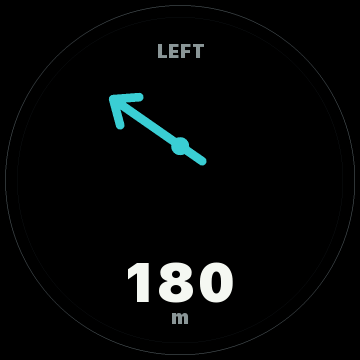
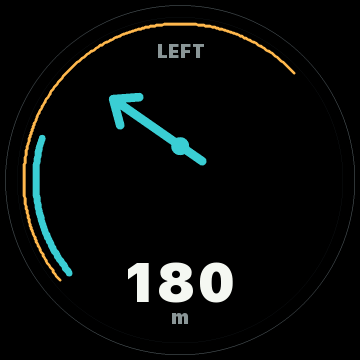
Feature: Add total distance and 'next turn' progress arcs.

diff --git a/src/App.cpp b/src/App.cpp
@@ -41,6 +41,36 @@ void drawCircularShell(Display& display) {
     display.circle(cx, cy, radius - 12, Color{18, 26, 28}, 1);
 }
 
+int clampProgress(int value) {
+    if (value < 0) {
+        return -1;
+    }
+
+    if (value > 100) {
+        return 100;
+    }
+
+    return value;
+}
+
+void drawProgressArcs(Display& display, const NavState& state) {
+    const int cx = centerX(display);
+    const int cy = centerY(display);
+    const int radius = faceRadius(display);
+    const int trip = clampProgress(state.tripProgressRemaining);
+    const int maneuver = clampProgress(state.maneuverProgressRemaining);
+
+    if (trip >= 0) {
+        const float sweep = 260.0f * (float)trip / 100.0f;
+        display.arc(cx, cy, radius - 18, -130.0f, sweep, Palette::Amber, 3);
+    }
+
+    if (maneuver >= 0) {
+        const float sweep = 260.0f * (float)maneuver / 100.0f;
+        display.arc(cx, cy, radius - 30, -130.0f, sweep, Palette::Cyan, 7);
+    }
+}
+
 void drawSpeedWarning(Display& display, const NavState& state) {
     if (state.currentSpeed <= 0 || state.speedLimit <= 0 || state.currentSpeed <= state.speedLimit) {
         return;
@@ -159,6 +189,7 @@ void App::render(Display& display) {
 
 void App::renderNavigation(Display& display) {
     drawCircularShell(display);
+    drawProgressArcs(display, _state);
     drawSpeedWarning(display, _state);
 
     const int cx = centerX(display);

diff --git a/sim/SdlDisplay.cpp b/sim/SdlDisplay.cpp
@@ -383,6 +383,35 @@ void SdlDisplay::circle(int cx, int cy, int radius, SteedPilot::Color color, int
     }
 }
 
+void SdlDisplay::arc(int cx, int cy, int radius, float startDegrees, float sweepDegrees, SteedPilot::Color color, int thickness) {
+    if (sweepDegrees <= 0.0f) {
+        return;
+    }
+
+    if (sweepDegrees > 360.0f) {
+        sweepDegrees = 360.0f;
+    }
+
+    const int steps = std::max(8, (int)(std::abs(sweepDegrees) * radius / 90.0f));
+    int previousX = 0;
+    int previousY = 0;
+
+    for (int i = 0; i <= steps; ++i) {
+        const float p = (float)i / (float)steps;
+        const float degrees = startDegrees + sweepDegrees * p;
+        const float radians = (degrees - 90.0f) * 3.14159265358979323846f / 180.0f;
+        const int x = cx + (int)(std::cos(radians) * radius);
+        const int y = cy + (int)(std::sin(radians) * radius);
+
+        if (i > 0) {
+            line(previousX, previousY, x, y, color, thickness);
+        }
+
+        previousX = x;
+        previousY = y;
+    }
+}
+
 void SdlDisplay::fillCircle(int cx, int cy, int radius, SteedPilot::Color color) {
     setColor(color);
     const int scaledRadius = ss(radius);

diff --git a/include/SteedPilot/Display.h b/include/SteedPilot/Display.h
@@ -77,6 +77,19 @@ public:
     virtual void circle(int cx, int cy, int radius, Color color, int thickness = 1) = 0;
 
     /**
+     * Draws a clockwise arc outline.
+     *
+     * @param cx Center x coordinate.
+     * @param cy Center y coordinate.
+     * @param radius Arc radius in pixels.
+     * @param startDegrees Start angle in degrees, where 0 points up.
+     * @param sweepDegrees Clockwise sweep in degrees.
+     * @param color Arc color.
+     * @param thickness Arc thickness in pixels.
+     */
+    virtual void arc(int cx, int cy, int radius, float startDegrees, float sweepDegrees, Color color, int thickness = 1) = 0;
+
+    /**
      * Draws a filled circle.
      *
      * @param cx Center x coordinate.

diff --git a/sim/main.cpp b/sim/main.cpp
@@ -25,6 +25,8 @@ SteedPilot::NavState scenarioFor(uint32_t elapsedMs) {
 
     state.distanceToManeuverMeters = 420 - (int32_t)((elapsedMs / 25) % 390);
     state.distanceToDestinationMeters = 18400 - (int32_t)((elapsedMs / 100) % 2500);
+    state.maneuverProgressRemaining = 20 + (int8_t)((elapsedMs / 80) % 80);
+    state.tripProgressRemaining = 70;
     state.destinationBearingDegrees = (int16_t)((elapsedMs / 30) % 360);
     state.speedLimit = 50;
     state.currentSpeed = 47 + (int16_t)((elapsedMs / 450) % 10);
@@ -51,6 +53,8 @@ SteedPilot::NavState navigationState(SteedPilot::Maneuver maneuver, int32_t dist
     state.maneuver = maneuver;
     state.distanceToManeuverMeters = distanceMeters;
     state.distanceToDestinationMeters = 18400;
+    state.maneuverProgressRemaining = distanceMeters > 300 ? 85 : 22;
+    state.tripProgressRemaining = 68;
     state.destinationBearingDegrees = 35;
     return state;
 }

diff --git a/include/SteedPilot/NavState.h b/include/SteedPilot/NavState.h
@@ -43,6 +43,8 @@ struct NavState {
     Maneuver maneuver = Maneuver::Continue;
     int32_t distanceToManeuverMeters = 240;
     int32_t distanceToDestinationMeters = 18400;
+    int8_t maneuverProgressRemaining = -1;
+    int8_t tripProgressRemaining = -1;
     int16_t destinationBearingDegrees = 35;
     int8_t roundaboutExit = 0;
     int16_t currentSpeed = 0;

diff --git a/sim/SdlDisplay.h b/sim/SdlDisplay.h
@@ -62,6 +62,7 @@ public:
 
     void line(int x0, int y0, int x1, int y1, SteedPilot::Color color, int thickness = 1) override;
     void circle(int cx, int cy, int radius, SteedPilot::Color color, int thickness = 1) override;
+    void arc(int cx, int cy, int radius, float startDegrees, float sweepDegrees, SteedPilot::Color color, int thickness = 1) override;
     void fillCircle(int cx, int cy, int radius, SteedPilot::Color color) override;
     void text(int x, int y, const char* value, int size, SteedPilot::Color color, SteedPilot::TextAlign align) override;
 